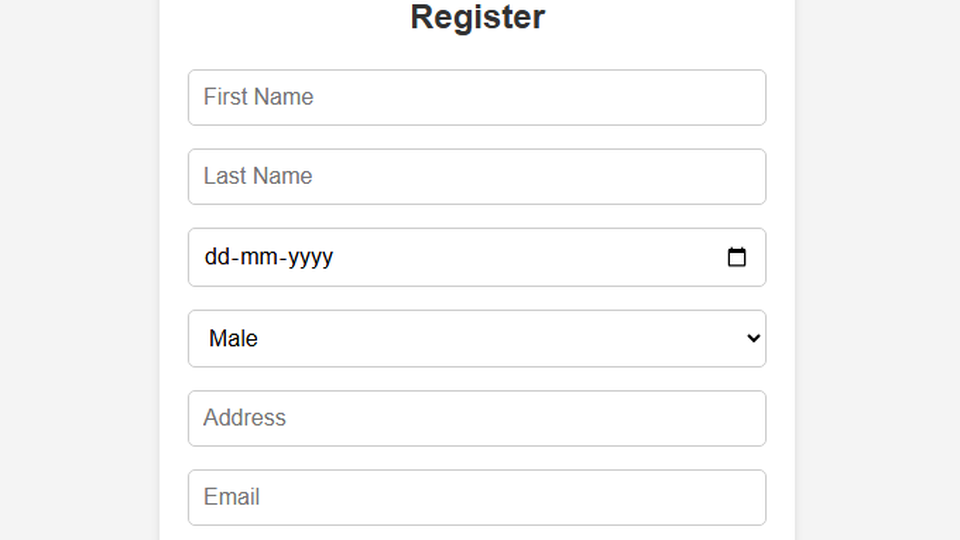
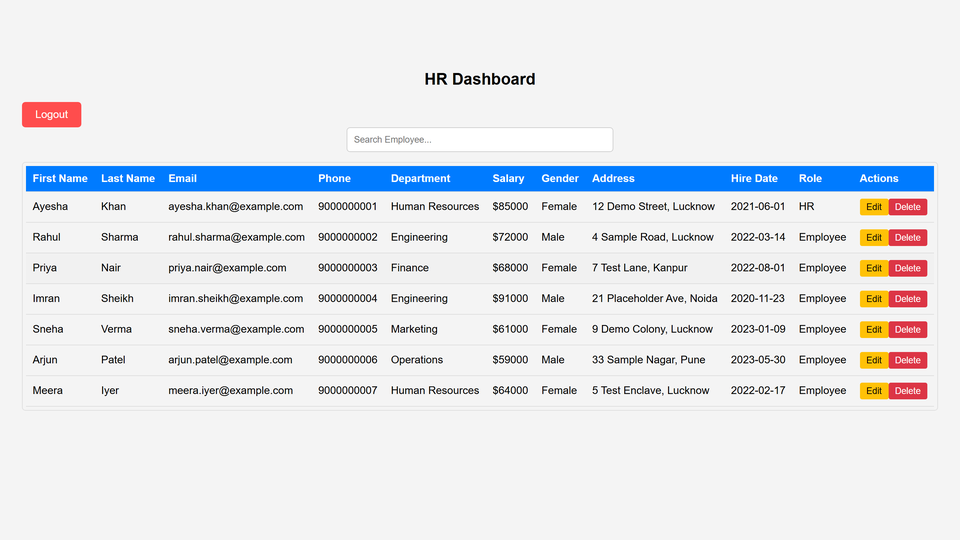
Remove scaffolding note and use a real HR Dashboard thumbnail
- Projects modal: drop the developer-facing 'Links live here' placeholder and
  guard the button row so cards without a link render no empty gap. No URLs
  were invented; link-less cards simply show no link button.
- employee-management.png: replace the sparse registration-form crop with a
  genuine capture of the running HR Dashboard (heading, search, 11-column
  employee table). Same 960x540 16:9 framing, important UI kept inside the
  card and modal object-cover object-top crops.
- space-shooter-game.png left unchanged.

diff --git a/src/components/Projects.tsx b/src/components/Projects.tsx
@@ -188,25 +188,20 @@ export function Projects() {
                     </span>
                   ))}
                 </div>
-                {!open.liveUrl && !open.githubUrl && (
-                  <p className="mt-4 rounded-2xl border border-dashed border-white/20 bg-white/5 p-3 text-xs leading-relaxed text-slate-400">
-                    Links live here — add a real <code className="font-mono text-violet-200">githubUrl</code>{" "}
-                    / <code className="font-mono text-violet-200">liveUrl</code> in{" "}
-                    <code className="font-mono text-violet-200">src/data/portfolio.ts</code>.
-                  </p>
+                {(open.liveUrl || open.githubUrl) && (
+                  <div className="mt-5 flex gap-2">
+                    {open.liveUrl && (
+                      <a href={open.liveUrl} target="_blank" rel="noreferrer" className="inline-flex min-h-[44px] flex-1 items-center justify-center gap-1.5 rounded-full bg-white px-4 text-xs font-bold text-[#14101f]">
+                        Live Demo <ExternalLink className="h-3.5 w-3.5" aria-hidden />
+                      </a>
+                    )}
+                    {open.githubUrl && (
+                      <a href={open.githubUrl} target="_blank" rel="noreferrer" className="inline-flex min-h-[44px] flex-1 items-center justify-center gap-1.5 rounded-full border border-white/15 px-4 text-xs font-bold text-white">
+                        <Github className="h-4 w-4" aria-hidden /> GitHub
+                      </a>
+                    )}
+                  </div>
                 )}
-                <div className="mt-5 flex gap-2">
-                  {open.liveUrl && (
-                    <a href={open.liveUrl} target="_blank" rel="noreferrer" className="inline-flex min-h-[44px] flex-1 items-center justify-center gap-1.5 rounded-full bg-white px-4 text-xs font-bold text-[#14101f]">
-                      Live Demo <ExternalLink className="h-3.5 w-3.5" aria-hidden />
-                    </a>
-                  )}
-                  {open.githubUrl && (
-                    <a href={open.githubUrl} target="_blank" rel="noreferrer" className="inline-flex min-h-[44px] flex-1 items-center justify-center gap-1.5 rounded-full border border-white/15 px-4 text-xs font-bold text-white">
-                      <Github className="h-4 w-4" aria-hidden /> GitHub
-                    </a>
-                  )}
-                </div>
               </motion.div>
             </motion.div>
           )}
